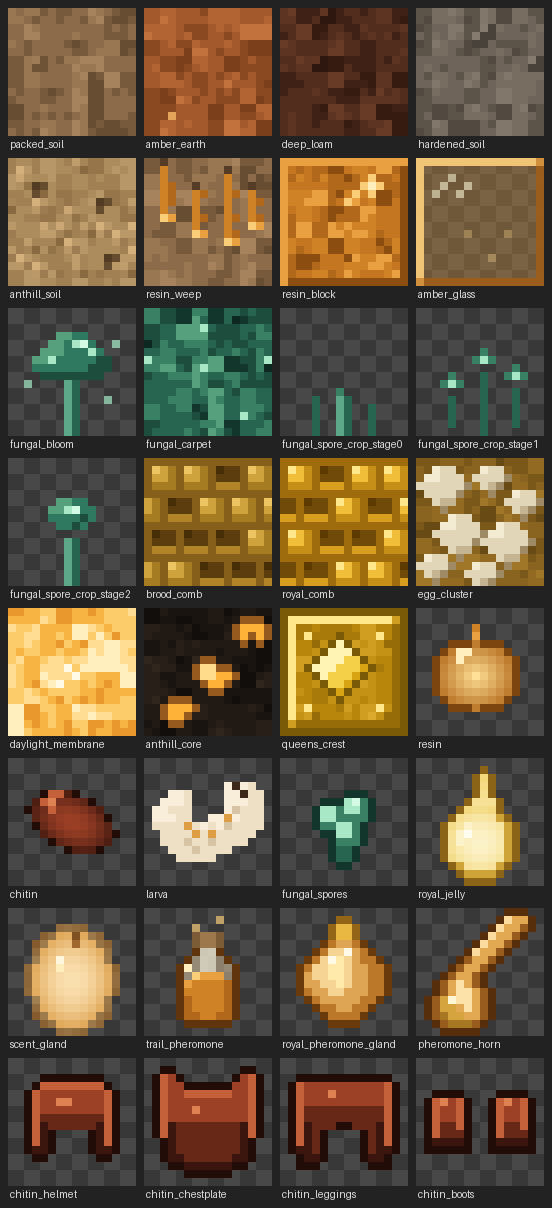
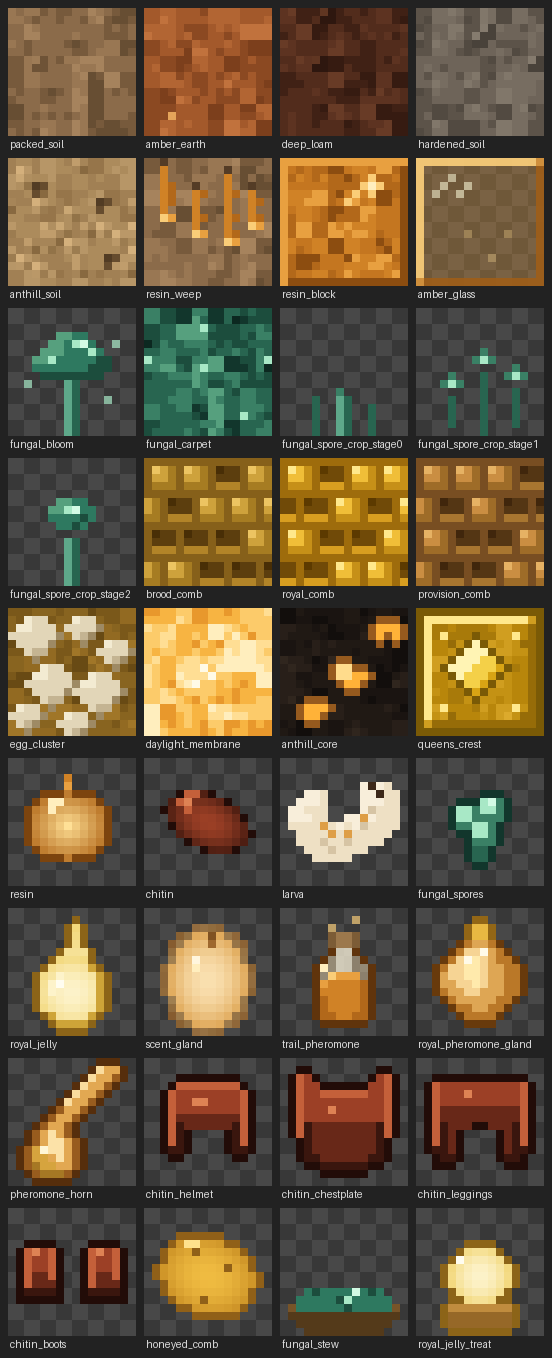
feat(content): provision comb (guaranteed exit pearls) + colony foods
Three new foods (Honeyed Comb, Fungal Stew, Royal Jelly Treat) and the
Provision Comb block, whose loot guarantees 1-2 ender pearls plus 1-2 of
the foods on every break -- the spec section 2 affordability floor so a
player can always find their way out, even on Peaceful. No Silk Touch
special case. Texture is a brood-comb recolor placeholder per the task
brief. GameTest breaks the block with the real drop pipeline
(level.destroyBlock(pos, true), not the helper's dropBlock=false
shortcut) and asserts a pearl among the drops.

diff --git a/assets-src/blocks.py b/assets-src/blocks.py
@@ -439,6 +439,20 @@ def royal_comb():
                 cap_shade=(198, 144, 24, 255))
 
 
+def provision_comb():
+    """Provision Comb (Ep2 D1): a straight recolor of brood_comb's own
+    palette (same `comb()` call shape, same cell size) -- deliberately a
+    placeholder, not hand-pixeled, per the task brief. Shifted toward a
+    duller burnt-orange/brown so it reads as "stored food" rather than
+    "brood" next to brood_comb's yellow and royal_comb's bright gold; an
+    art package refines this later."""
+    return comb("provision_comb",
+                line=(120, 78, 34, 255),
+                hollow=(84, 54, 20, 255), hollow_lit=(168, 118, 48, 255),
+                cap=(202, 142, 66, 255), cap_rim=(230, 178, 100, 255),
+                cap_shade=(158, 108, 40, 255))
+
+
 def egg_cluster():
     """Pale ant eggs bedded on dark wax -- 3-tone shells, top-left lit."""
     img = value_noise_fill("egg_cluster",
@@ -1118,6 +1132,111 @@ def chitin_boots_item():
     return from_mask(CHITIN_BOOTS_MASK)
 
 
+# ---------------------------------------------------------------------------
+# Provisions (Ep2 D1) -- the three colony foods (spec section 8)
+# ---------------------------------------------------------------------------
+
+def honeyed_comb_item():
+    """Honeyed Comb: a bite-sized hunk of comb, sugar-glazed -- the same
+    tilted-ellipse SDF technique chitin_item uses, in provision_comb's
+    honey-gold palette, with a couple of dark hex-cell notches so it reads
+    as broken-off comb rather than a smooth biscuit."""
+    img = blank()
+    px = img.load()
+    core = (240, 188, 66, 255)
+    mid = (206, 148, 40, 255)
+    rim = (144, 96, 24, 255)
+
+    def sdf(x, y):
+        dx, dy = x + 0.5 - 8.0, y + 0.5 - 8.5
+        u = dx * 0.92 + dy * 0.30
+        v = -dx * 0.30 + dy * 0.92
+        return (u * u) / 32.0 + (v * v) / 20.0
+
+    for y in range(SIZE):
+        for x in range(SIZE):
+            d = sdf(x, y)
+            if d < 1.0:
+                px[x, y] = lerp_color(core, mid, min(1.0, d))
+    outline(img, rim)
+    # broken hex-cell notches -- a hint of comb structure, not a full grid
+    for (x, y) in [(6, 5), (10, 7), (7, 11)]:
+        if px[x, y][3] != 0:
+            px[x, y] = rim
+    # honey glaze highlight, upper-left
+    px[5, 4] = (255, 226, 140, 255)
+    if px[6, 4][3] != 0:
+        px[6, 4] = (255, 226, 140, 255)
+    return img
+
+
+def fungal_stew_item():
+    """Fungal Stew: a wooden bowl (vanilla mushroom-stew silhouette) filled
+    with luminous fungal broth -- FUNGAL_GLOW/FUNGAL_BRIGHT from
+    fungal_bloom's own palette, so the stew visibly comes from the garden
+    crop rather than reading as generic soup."""
+    img = blank()
+    px = img.load()
+    wood_rim = (120, 84, 40, 255)
+    wood_dark = (84, 58, 26, 255)
+    broth_deep = (28, 77, 61, 255)
+    broth = (46, 121, 96, 255)
+
+    # bowl: a wide shallow arc, rim two pixels thick
+    bowl_rows = {
+        11: range(2, 14), 12: range(1, 15), 13: range(1, 15),
+        14: range(2, 14), 15: range(3, 13),
+    }
+    for y, xs in bowl_rows.items():
+        for x in xs:
+            px[x, y] = wood_dark
+    for (x, y) in [(1, 12), (2, 11), (13, 11), (14, 12)]:
+        px[x, y] = wood_rim
+    # broth pool inside the rim
+    broth_rows = {10: range(3, 13), 11: range(2, 14), 12: range(2, 14)}
+    for y, xs in broth_rows.items():
+        for x in xs:
+            px[x, y] = broth
+    for (x, y) in [(4, 10), (11, 10), (7, 11), (8, 12)]:
+        px[x, y] = broth_deep
+    # a fleck of bright glow, off-centre, echoing fungal_bloom's cap highlight
+    px[9, 10] = FUNGAL_BRIGHT
+    px[8, 11] = FUNGAL_GLOW
+    return img
+
+
+def royal_jelly_treat_item():
+    """Royal Jelly Treat: royal_jelly_item's own droplet SDF, sized down and
+    seated on a short comb-brown wafer base -- "jelly + comb" as the two
+    halves of the sprite, distinguishing it from the plain jelly item at a
+    glance in the hotbar."""
+    img = blank()
+    px = img.load()
+    cx, cy = 8.0, 8.5
+
+    def sdf(x, y):
+        dx, dy = x + 0.5 - cx, y + 0.5 - cy
+        return dx * dx + dy * dy
+
+    for y in range(SIZE):
+        for x in range(SIZE):
+            d = sdf(x, y)
+            if d < 14:
+                px[x, y] = lerp_color(JELLY_CORE, JELLY_MID, min(1.0, d / 14))
+    # comb wafer base beneath the droplet
+    for y in range(12, 15):
+        for x in range(4, 12):
+            if px[x, y][3] == 0:
+                px[x, y] = (150, 104, 40, 255)
+    for x in range(4, 12):
+        px[x, 12] = (192, 140, 62, 255)
+    outline(img, JELLY_RIM)
+    # specular, upper-left shoulder
+    if px[5, 6][3] != 0:
+        px[5, 6] = (255, 253, 240, 255)
+    return img
+
+
 # --- Soldier-ant palette, mirrored from models.py S_* constants: the armor is
 # --- literally plates of soldier chitin, so it reuses the exact tones.
 SOLD_DARKEST = (26, 10, 8, 255)
@@ -1298,6 +1417,7 @@ BLOCK_TEXTURES = {
     "fungal_spore_crop_stage2": fungal_spore_crop_stage2,
     "brood_comb": brood_comb,
     "royal_comb": royal_comb,
+    "provision_comb": provision_comb,
     "egg_cluster": egg_cluster,
     "daylight_membrane": daylight_membrane,
     "anthill_core": anthill_core,
@@ -1318,6 +1438,9 @@ ITEM_TEXTURES = {
     "chitin_chestplate": chitin_chestplate_item,
     "chitin_leggings": chitin_leggings_item,
     "chitin_boots": chitin_boots_item,
+    "honeyed_comb": honeyed_comb_item,
+    "fungal_stew": fungal_stew_item,
+    "royal_jelly_treat": royal_jelly_treat_item,
 }
 
 

diff --git a/src/main/java/com/nogal/formicary/item/ModItems.java b/src/main/java/com/nogal/formicary/item/ModItems.java
@@ -10,6 +10,7 @@ import net.minecraft.world.item.ArmorItem;
 import net.minecraft.world.item.BlockItem;
 import net.minecraft.world.item.Item;
 import net.minecraft.world.item.ItemNameBlockItem;
+import net.minecraft.world.item.Items;
 import net.neoforged.neoforge.registries.DeferredItem;
 import net.neoforged.neoforge.registries.DeferredRegister;
 
@@ -44,6 +45,38 @@ public class ModItems {
             .effect(() -> new MobEffectInstance(MobEffects.NIGHT_VISION, FUNGAL_BLOOM_NIGHT_VISION_TICKS), 1.0F)
             .build();
 
+    /** D1: quick, good food (spec section 8) -- {@code .fast()} halves the vanilla eat time. */
+    private static final FoodProperties HONEYED_COMB_FOOD = new FoodProperties.Builder()
+            .nutrition(4)
+            .saturationModifier(0.6F)
+            .fast()
+            .build();
+
+    /**
+     * D1: bowl food from Fungus Garden crops (spec section 8). {@code usingConvertsTo}
+     * is the verified {@code FoodProperties.Builder} method (see {@code reference/}) that
+     * gives vanilla's Mushroom/Rabbit Stew their "returns a bowl" behaviour -- the same
+     * shape this reuses. Night Vision duration matches {@link #FUNGAL_BLOOM_NIGHT_VISION_TICKS}
+     * exactly: that is the play-test round 1 retuned fungus precedent (10s), not the
+     * spec's original 30s reading, and the task brief asks for the same 10s here.
+     */
+    private static final FoodProperties FUNGAL_STEW_FOOD = new FoodProperties.Builder()
+            .nutrition(8)
+            .saturationModifier(0.6F)
+            .usingConvertsTo(Items.BOWL)
+            .effect(() -> new MobEffectInstance(MobEffects.NIGHT_VISION, FUNGAL_BLOOM_NIGHT_VISION_TICKS), 1.0F)
+            .build();
+
+    /** D1: brief Absorption I (20s) -- jelly + comb, always edible even at full hunger. */
+    private static final int ROYAL_JELLY_TREAT_ABSORPTION_TICKS = 400;
+
+    private static final FoodProperties ROYAL_JELLY_TREAT_FOOD = new FoodProperties.Builder()
+            .nutrition(4)
+            .saturationModifier(0.6F)
+            .alwaysEdible()
+            .effect(() -> new MobEffectInstance(MobEffects.ABSORPTION, ROYAL_JELLY_TREAT_ABSORPTION_TICKS, 0), 1.0F)
+            .build();
+
     public static final DeferredItem<Item> RESIN = ITEMS.registerSimpleItem("resin");
     public static final DeferredItem<Item> CHITIN = ITEMS.registerSimpleItem("chitin");
     public static final DeferredItem<Item> SCENT_GLAND = ITEMS.registerSimpleItem("scent_gland");
@@ -73,6 +106,15 @@ public class ModItems {
     /** M7: reusable summon, two allied soldiers a blow, on a long cooldown. */
     public static final DeferredItem<PheromoneHornItem> PHEROMONE_HORN =
             ITEMS.registerItem("pheromone_horn", PheromoneHornItem::new);
+
+    // --- D1: colony foods (spec section 8) ---
+
+    public static final DeferredItem<Item> HONEYED_COMB = ITEMS.registerItem("honeyed_comb",
+            props -> new Item(props.food(HONEYED_COMB_FOOD)));
+    public static final DeferredItem<Item> FUNGAL_STEW = ITEMS.registerItem("fungal_stew",
+            props -> new Item(props.food(FUNGAL_STEW_FOOD).stacksTo(1)));
+    public static final DeferredItem<Item> ROYAL_JELLY_TREAT = ITEMS.registerItem("royal_jelly_treat",
+            props -> new Item(props.food(ROYAL_JELLY_TREAT_FOOD)));
 
     // --- Chitin Armor (spec section 5). No recipes until M8: creative-only for now. ---
 
@@ -108,6 +150,7 @@ public class ModItems {
             props -> new ItemNameBlockItem(ModBlocks.FUNGAL_SPORE_CROP.get(), props));
     public static final DeferredItem<BlockItem> BROOD_COMB = ITEMS.registerSimpleBlockItem(ModBlocks.BROOD_COMB);
     public static final DeferredItem<BlockItem> ROYAL_COMB = ITEMS.registerSimpleBlockItem(ModBlocks.ROYAL_COMB);
+    public static final DeferredItem<BlockItem> PROVISION_COMB = ITEMS.registerSimpleBlockItem(ModBlocks.PROVISION_COMB);
     public static final DeferredItem<BlockItem> EGG_CLUSTER = ITEMS.registerSimpleBlockItem(ModBlocks.EGG_CLUSTER);
     public static final DeferredItem<BlockItem> DAYLIGHT_MEMBRANE = ITEMS.registerSimpleBlockItem(ModBlocks.DAYLIGHT_MEMBRANE);
     public static final DeferredItem<BlockItem> ANTHILL_SOIL = ITEMS.registerSimpleBlockItem(ModBlocks.ANTHILL_SOIL);

diff --git a/src/main/java/com/nogal/formicary/datagen/ModBlockLootSubProvider.java b/src/main/java/com/nogal/formicary/datagen/ModBlockLootSubProvider.java
@@ -13,6 +13,7 @@ import net.minecraft.core.HolderLookup;
 import net.minecraft.core.registries.Registries;
 import net.minecraft.data.loot.BlockLootSubProvider;
 import net.minecraft.world.flag.FeatureFlags;
+import net.minecraft.world.item.Items;
 import net.minecraft.world.item.enchantment.Enchantment;
 import net.minecraft.world.item.enchantment.Enchantments;
 import net.minecraft.world.level.block.Block;
@@ -112,6 +113,36 @@ public class ModBlockLootSubProvider extends BlockLootSubProvider {
         add(ModBlocks.ROYAL_COMB.get(),
                 createSingleItemTableWithSilkTouch(ModBlocks.ROYAL_COMB.get(), ModItems.ROYAL_JELLY.get(),
                         ConstantValue.exactly(ROYAL_COMB_JELLY)));
+
+        // D1: the larder's stockpile block -- see provisionCombTable() for the reasoning.
+        add(ModBlocks.PROVISION_COMB.get(), provisionCombTable());
+    }
+
+    /**
+     * Provision Comb's loot (spec section 2/3, Ep2 D1): the affordability floor for the
+     * exit economy. Every break -- no Silk Touch special case, per the task brief --
+     * guarantees 1-2 ender pearls (so a player can always find a way out, even having
+     * arrived on their last one) plus 1-2 of the three new colony foods, picked at random
+     * from an equal-weight pool of the three entries: one roll draws one entry, so a
+     * {@code UniformGenerator(1, 2)} roll count over three equally-weighted
+     * {@code LootItem} entries is "1-2 of the three foods" exactly, the same
+     * rolls-over-weighted-entries shape {@code fungalSporeCropTable}'s mature pool uses
+     * for a single item's count. Deliberately not wrapped in {@code applyExplosionDecay}/
+     * {@code applyExplosionCondition} -- {@code fungalSporeCropTable} (multi-item, like
+     * this one) sets that precedent in this same file; {@code resinWeepTable} (single
+     * item) is the one that wraps.
+     */
+    private LootTable.Builder provisionCombTable() {
+        return LootTable.lootTable()
+                .withPool(LootPool.lootPool()
+                        .setRolls(ConstantValue.exactly(1.0F))
+                        .add(LootItem.lootTableItem(Items.ENDER_PEARL)
+                                .apply(SetItemCountFunction.setCount(UniformGenerator.between(1.0F, 2.0F)))))
+                .withPool(LootPool.lootPool()
+                        .setRolls(UniformGenerator.between(1.0F, 2.0F))
+                        .add(LootItem.lootTableItem(ModItems.HONEYED_COMB.get()))
+                        .add(LootItem.lootTableItem(ModItems.FUNGAL_STEW.get()))
+                        .add(LootItem.lootTableItem(ModItems.ROYAL_JELLY_TREAT.get())));
     }
 
     /**

diff --git a/src/main/java/com/nogal/formicary/gametest/LootXpGameTests.java b/src/main/java/com/nogal/formicary/gametest/LootXpGameTests.java
@@ -13,6 +13,7 @@ import net.minecraft.gametest.framework.GameTest;
 import net.minecraft.gametest.framework.GameTestHelper;
 import net.minecraft.world.entity.EntityType;
 import net.minecraft.world.entity.player.Player;
+import net.minecraft.world.item.Items;
 import net.minecraft.world.level.GameType;
 import net.neoforged.neoforge.gametest.GameTestHolder;
 import net.neoforged.neoforge.gametest.PrefixGameTestTemplate;
@@ -143,5 +144,28 @@ public class LootXpGameTests {
             helper.assertEntityPresent(EntityType.EXPERIENCE_ORB);
             helper.assertEntityNotPresent(EntityType.ITEM);
         });
+    }
+
+    // ----------------------------------------------------------------- provision comb --
+
+    /**
+     * D1: Provision Comb's loot always includes at least one ender pearl (the §2
+     * affordability floor -- see {@code ModBlockLootSubProvider#provisionCombTable}).
+     *
+     * <p>Broken with {@code level.destroyBlock(pos, true)}, exactly like
+     * {@link #egg_cluster_break_pops_experience_and_no_items} -- {@code
+     * GameTestHelper#destroyBlock} hardcodes {@code dropBlock=false} and would skip the
+     * loot table entirely (banked in {@code docs/gotchas/gametest.md}), making this test
+     * pass for the wrong reason (nothing dropping at all).
+     */
+    @PrefixGameTestTemplate(false)
+    @GameTest(template = "platform")
+    public static void provision_comb_break_always_drops_an_ender_pearl(GameTestHelper helper) {
+        BlockPos pos = new BlockPos(2, STAND_Y, 2);
+        helper.setBlock(pos, ModBlocks.PROVISION_COMB.get());
+
+        helper.getLevel().destroyBlock(helper.absolutePos(pos), true);
+
+        helper.succeedWhen(() -> helper.assertItemEntityPresent(Items.ENDER_PEARL));
     }
 }

diff --git a/src/main/java/com/nogal/formicary/block/ModBlocks.java b/src/main/java/com/nogal/formicary/block/ModBlocks.java
@@ -136,6 +136,19 @@ public class ModBlocks {
                     .strength(0.6F)
                     .lightLevel(state -> 6));
 
+    /**
+     * D1: the larder's stockpile block -- carries the guaranteed exit pearls (see
+     * {@code ModBlockLootSubProvider}). Hardness matches Brood Comb per the task brief;
+     * texture is a recolor of the brood comb texture for now ({@code assets-src/blocks.py}).
+     */
+    public static final DeferredBlock<Block> PROVISION_COMB = BLOCKS.registerSimpleBlock(
+            "provision_comb",
+            BlockBehaviour.Properties.of()
+                    .mapColor(MapColor.COLOR_ORANGE)
+                    .sound(SoundType.HONEY_BLOCK)
+                    .strength(0.6F)
+                    .lightLevel(state -> 3));
+
     /** Egg Cluster's break-XP range (play-test round 1, spec item 3: "~3-7"). */
     private static final int EGG_CLUSTER_XP_MIN = 3;
     private static final int EGG_CLUSTER_XP_MAX = 7;

diff --git a/src/main/java/com/nogal/formicary/datagen/ModLanguageProvider.java b/src/main/java/com/nogal/formicary/datagen/ModLanguageProvider.java
@@ -32,6 +32,7 @@ public class ModLanguageProvider extends LanguageProvider {
         addBlock(ModBlocks.FUNGAL_CARPET, "Fungal Carpet");
         addBlock(ModBlocks.BROOD_COMB, "Brood Comb");
         addBlock(ModBlocks.ROYAL_COMB, "Royal Comb");
+        addBlock(ModBlocks.PROVISION_COMB, "Provision Comb");
         addBlock(ModBlocks.EGG_CLUSTER, "Egg Cluster");
         addBlock(ModBlocks.DAYLIGHT_MEMBRANE, "Daylight Membrane");
         addBlock(ModBlocks.ANTHILL_SOIL, "Anthill Soil");
@@ -49,6 +50,10 @@ public class ModLanguageProvider extends LanguageProvider {
 
         addItem(ModItems.ROYAL_PHEROMONE_GLAND, "Royal Pheromone Gland");
         addItem(ModItems.PHEROMONE_HORN, "Pheromone Horn");
+
+        addItem(ModItems.HONEYED_COMB, "Honeyed Comb");
+        addItem(ModItems.FUNGAL_STEW, "Fungal Stew");
+        addItem(ModItems.ROYAL_JELLY_TREAT, "Royal Jelly Treat");
 
         addItem(ModItems.FUNGAL_SPORES, "Fungal Spores");
 

diff --git a/src/main/java/com/nogal/formicary/datagen/ModItemModelProvider.java b/src/main/java/com/nogal/formicary/datagen/ModItemModelProvider.java
@@ -36,6 +36,7 @@ public class ModItemModelProvider extends ItemModelProvider {
         blockItem("fungal_carpet");
         blockItem("brood_comb");
         blockItem("royal_comb");
+        blockItem("provision_comb");
         blockItem("egg_cluster");
         blockItem("daylight_membrane");
         blockItem("anthill_soil");
@@ -53,6 +54,9 @@ public class ModItemModelProvider extends ItemModelProvider {
         basicItem(ModItems.TRAIL_PHEROMONE.get());
         basicItem(ModItems.ROYAL_PHEROMONE_GLAND.get());
         basicItem(ModItems.PHEROMONE_HORN.get());
+        basicItem(ModItems.HONEYED_COMB.get());
+        basicItem(ModItems.FUNGAL_STEW.get());
+        basicItem(ModItems.ROYAL_JELLY_TREAT.get());
 
         basicItem(ModItems.CHITIN_HELMET.get());
         basicItem(ModItems.CHITIN_CHESTPLATE.get());

diff --git a/src/main/java/com/nogal/formicary/item/ModCreativeModeTabs.java b/src/main/java/com/nogal/formicary/item/ModCreativeModeTabs.java
@@ -38,6 +38,9 @@ public class ModCreativeModeTabs {
                         output.accept(ModItems.TRAIL_PHEROMONE.get());
                         output.accept(ModItems.ROYAL_PHEROMONE_GLAND.get());
                         output.accept(ModItems.PHEROMONE_HORN.get());
+                        output.accept(ModItems.HONEYED_COMB.get());
+                        output.accept(ModItems.FUNGAL_STEW.get());
+                        output.accept(ModItems.ROYAL_JELLY_TREAT.get());
                         output.accept(ModItems.CHITIN_HELMET.get());
                         output.accept(ModItems.CHITIN_CHESTPLATE.get());
                         output.accept(ModItems.CHITIN_LEGGINGS.get());

diff --git a/src/main/java/com/nogal/formicary/datagen/ModBlockStateProvider.java b/src/main/java/com/nogal/formicary/datagen/ModBlockStateProvider.java
@@ -42,6 +42,7 @@ public class ModBlockStateProvider extends BlockStateProvider {
         // 2026-08-13 review).
         combBlock(ModBlocks.BROOD_COMB.get(), "brood_comb");
         combBlock(ModBlocks.ROYAL_COMB.get(), "royal_comb");
+        combBlock(ModBlocks.PROVISION_COMB.get(), "provision_comb");
         simpleBlock(ModBlocks.EGG_CLUSTER.get());
         simpleBlock(ModBlocks.DAYLIGHT_MEMBRANE.get());
         simpleBlock(ModBlocks.ANTHILL_SOIL.get());
